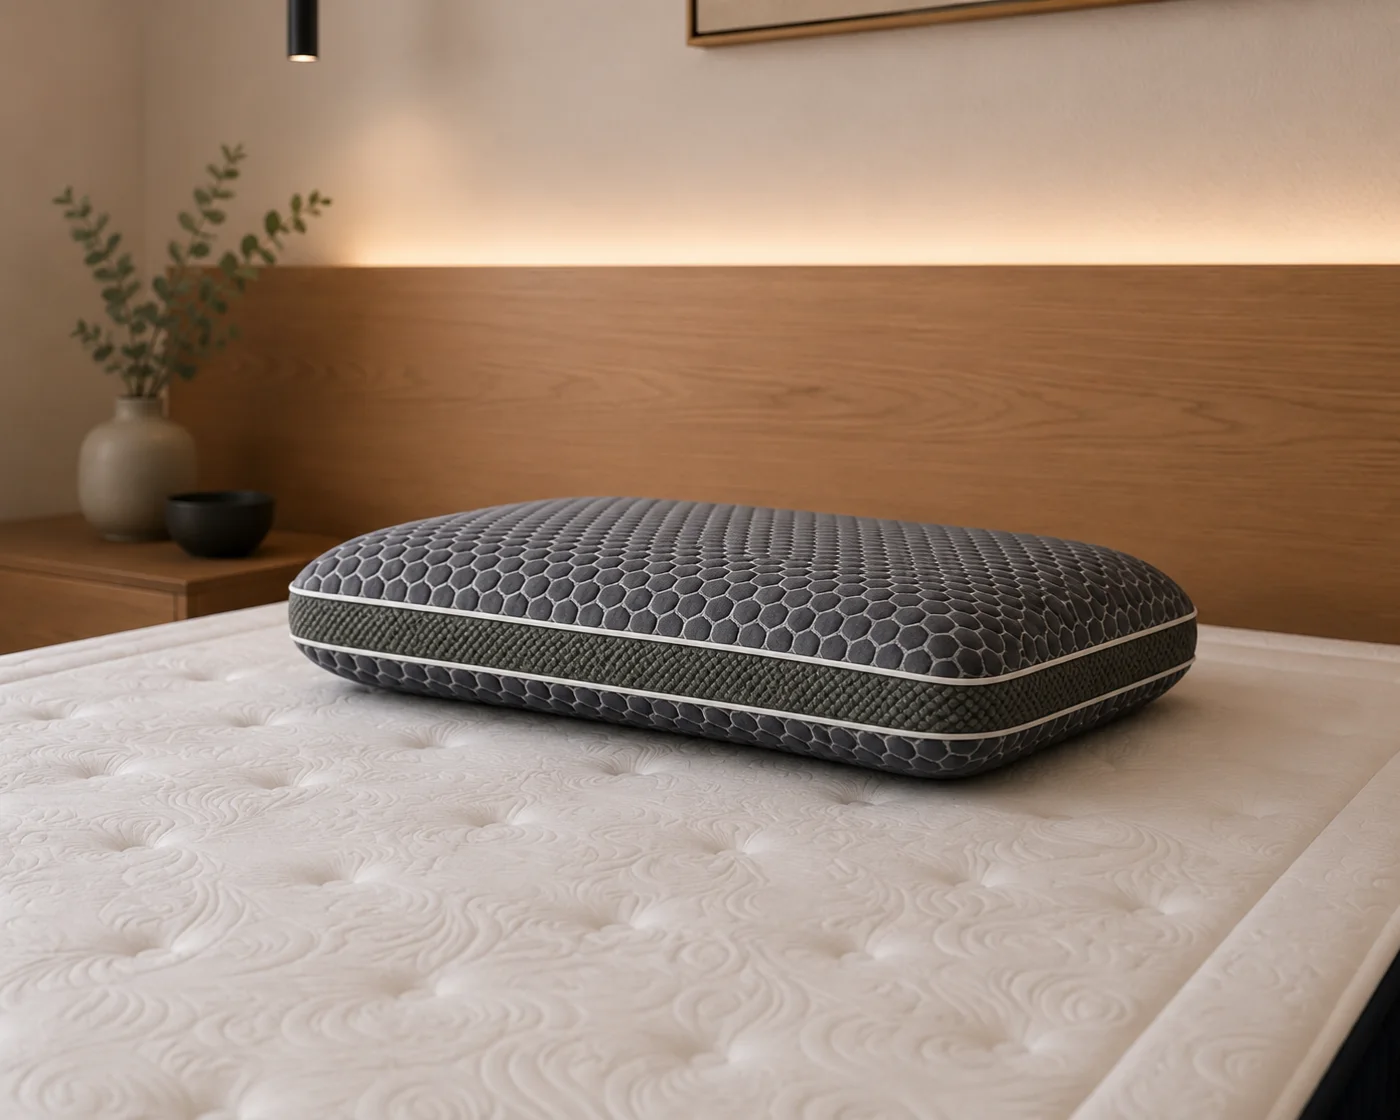
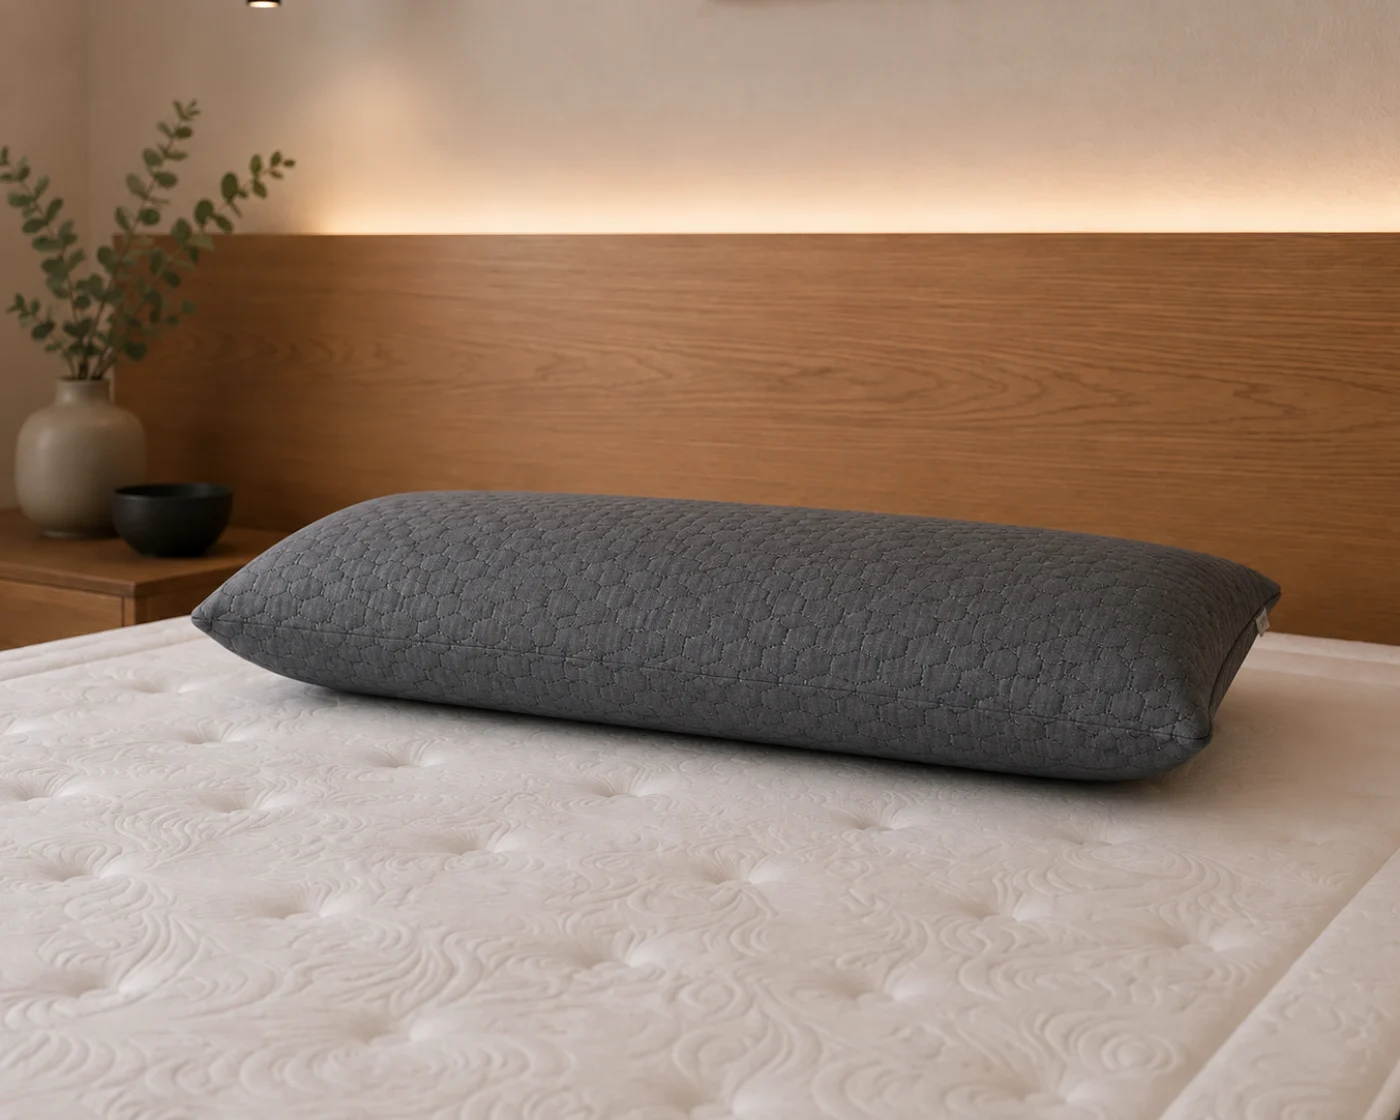
Nueva foto de la almohada
Sustituye la imagen de la almohada por la nueva. Venía en formato 4:3 y
las fichas usan 5:4, así que se recorta por los lados —centrado, sin
comerse nada de la almohada— y se generan las tres medidas que ya
existían más el JPG del catálogo de Google, con los mismos nombres.

Así se actualiza sola en todos los sitios donde sale: la ficha, la
página de almohadas, la de packs, el artículo de cómo elegir almohada,
la imagen para redes y el feed de Merchant Center.

De paso, el texto alternativo pasa de repetir el nombre del producto a
describir lo que se ve. Eso es lo que lee Google en la búsqueda de
imágenes y lo que oye quien navega con lector de pantalla.

diff --git a/almohadas.html b/almohadas.html
@@ -152,7 +152,7 @@
       <!-- Almohada viscoelástica Nuvora -->
       <article class="pcard" data-animate>
         <a href="producto.html?m=almohada-nuvora" class="pcard__media">
-          <img src="images/almohada-nuvora.webp" srcset="images/almohada-nuvora-md.webp 800w, images/almohada-nuvora.webp 1400w" sizes="(max-width: 700px) 92vw, 33vw" alt="Almohada viscoelástica Nuvora" fetchpriority="high" decoding="async">
+          <img src="images/almohada-nuvora.webp" srcset="images/almohada-nuvora-md.webp 800w, images/almohada-nuvora.webp 1400w" sizes="(max-width: 700px) 92vw, 33vw" alt="Almohada viscoelástica Nuvora, funda gris acolchada, sobre un colchón en un dormitorio con cabecero de madera" fetchpriority="high" decoding="async">
           <span class="pcard__badge">Nuevo</span>
         </a>
         <div class="pcard__body">

diff --git a/blog/como-elegir-almohada.html b/blog/como-elegir-almohada.html
@@ -260,7 +260,7 @@
 
       <a class="pcard-art" href="../producto.html?m=almohada-nuvora">
         <span class="pcard-art__media">
-          <img src="../images/almohada-nuvora.webp" srcset="../images/almohada-nuvora-md.webp 800w, ../images/almohada-nuvora.webp 1400w" sizes="(max-width: 700px) 92vw, 33vw" alt="Almohada viscoelástica Nuvora" loading="lazy">
+          <img src="../images/almohada-nuvora.webp" srcset="../images/almohada-nuvora-md.webp 800w, ../images/almohada-nuvora.webp 1400w" sizes="(max-width: 700px) 92vw, 33vw" alt="Almohada viscoelástica Nuvora, funda gris acolchada, sobre un colchón en un dormitorio con cabecero de madera" loading="lazy">
         </span>
         <span class="pcard-art__body">
           <span class="pcard-art__eyebrow">Nuestra almohada</span>

diff --git a/packs.html b/packs.html
@@ -211,7 +211,7 @@
 
         <article class="packitem" id="packItemAlmohada">
           <a class="packitem__media" href="producto.html?m=almohada-nuvora">
-            <img src="images/almohada-nuvora.webp" srcset="images/almohada-nuvora-md.webp 800w, images/almohada-nuvora.webp 1400w" sizes="(max-width: 700px) 92vw, 33vw" alt="Almohada viscoelástica Nuvora" loading="lazy">
+            <img src="images/almohada-nuvora.webp" srcset="images/almohada-nuvora-md.webp 800w, images/almohada-nuvora.webp 1400w" sizes="(max-width: 700px) 92vw, 33vw" alt="Almohada viscoelástica Nuvora, funda gris acolchada, sobre un colchón en un dormitorio con cabecero de madera" loading="lazy">
           </a>
           <div class="packitem__body">
             <span class="packitem__kind">Almohada</span>
